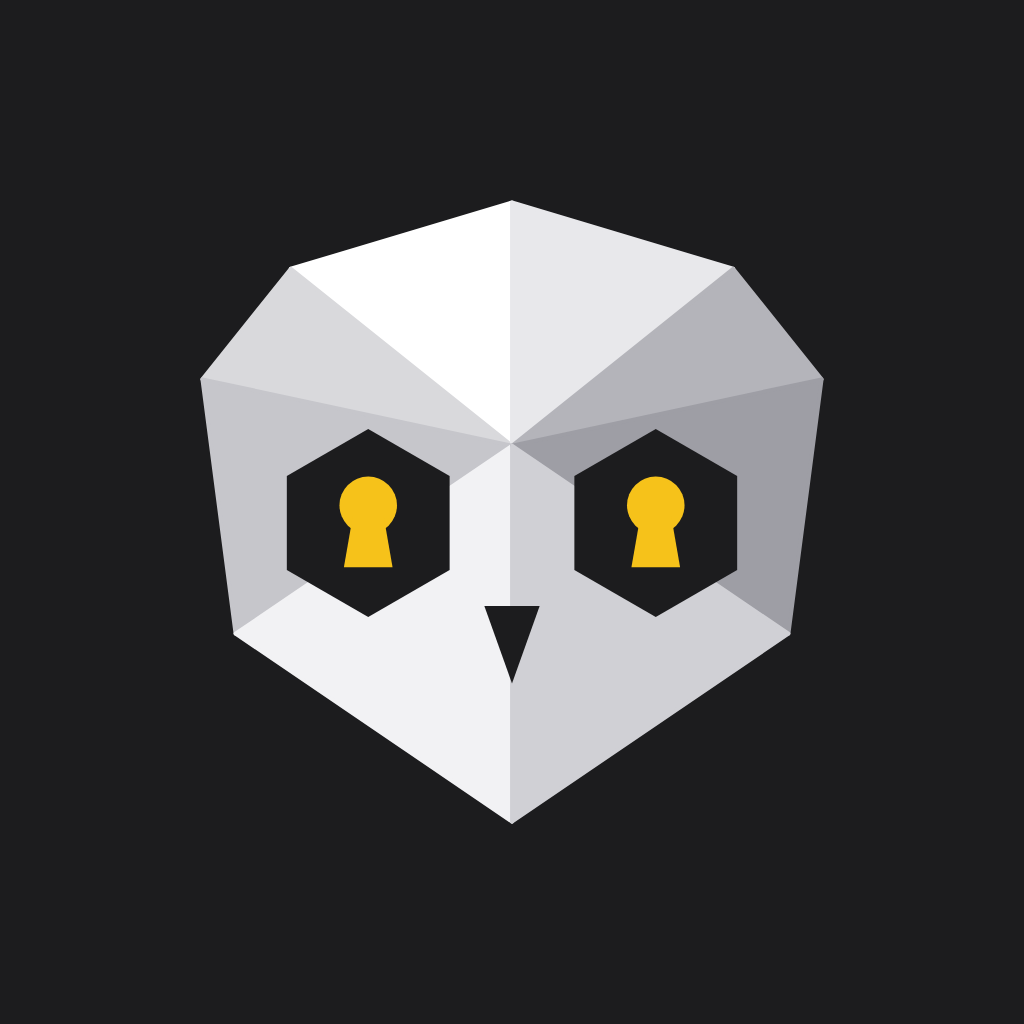
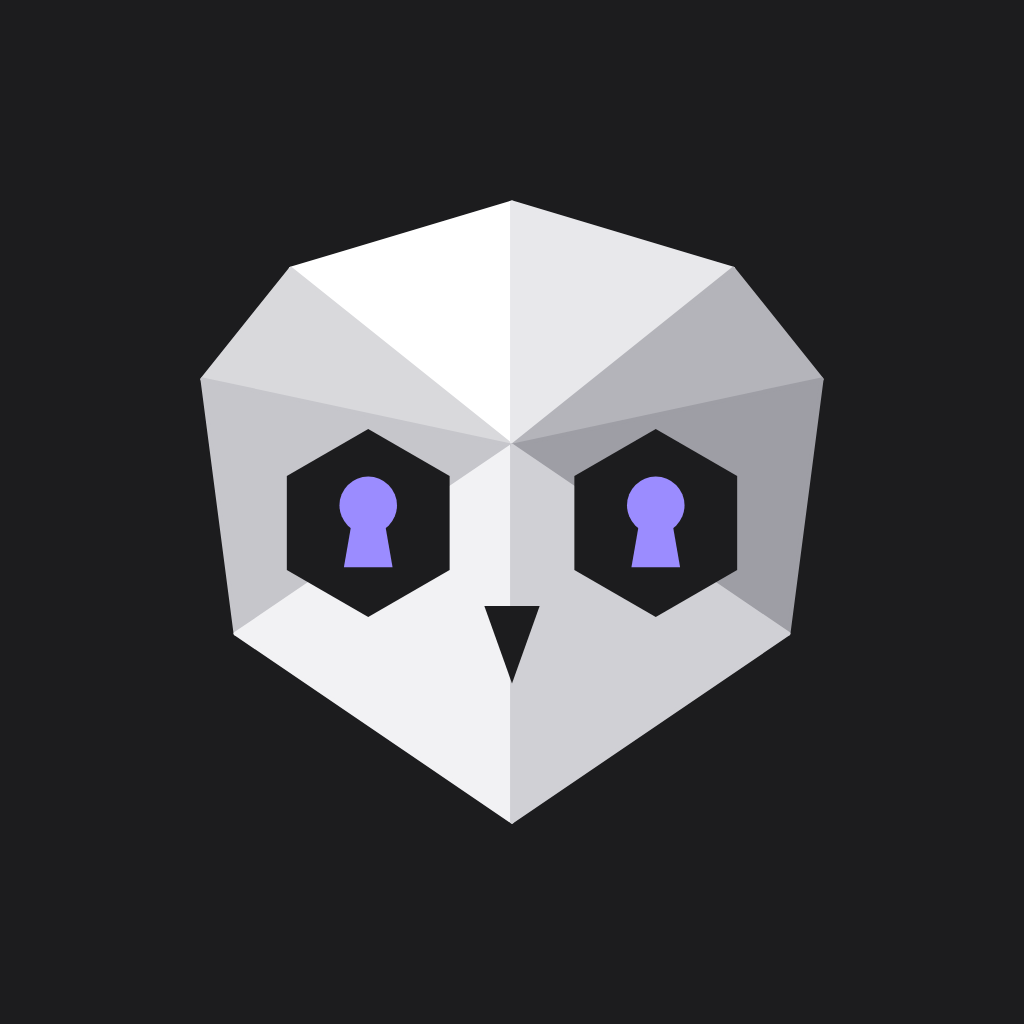
Switch the brand accent to violet and add a privacy slogan
- accent #F6C21A (amber) → #9B8CFF (violet), 6.1:1 contrast on graphite
- logo keyholes and app/splash/favicon PNGs recolored to violet
- tagline replaced with a slogan in TR/EN/RU

Changed region(s): [[0.5938, 0.4688, 0.6875, 0.5625], [0.3125, 0.4688, 0.4062, 0.5625]]

diff --git a/apps/mobile/i18n.ts b/apps/mobile/i18n.ts
@@ -2,28 +2,28 @@ import { LANGS, type Lang } from '@burrowl/assistant'
 
 export const strings: Record<Lang, {
   greeting: string
-  onDevice: string
+  slogan: string
   placeholder: string
   send: string
   searching: string
 }> = {
   tr: {
     greeting: 'Merhaba, nasıl yardımcı olabilirim?',
-    onDevice: 'Cihazda çalışır · hesap yok · sohbetler telefondan çıkmaz',
+    slogan: 'Sorduğun her şey sende kalır.',
     placeholder: 'Mesajınızı yazın...',
     send: 'Gönder',
     searching: 'Aranıyor',
   },
   en: {
     greeting: 'Hi, how can I help you?',
-    onDevice: 'Runs on your device · no account · chats never leave your phone',
+    slogan: 'Everything you ask stays with you.',
     placeholder: 'Type your message...',
     send: 'Send',
     searching: 'Searching',
   },
   ru: {
     greeting: 'Привет! Чем могу помочь?',
-    onDevice: 'Работает на устройстве · без аккаунта · чаты не покидают телефон',
+    slogan: 'Всё, что вы спрашиваете, остаётся с вами.',
     placeholder: 'Напишите сообщение...',
     send: 'Отправить',
     searching: 'Ищу',

diff --git a/apps/mobile/theme.ts b/apps/mobile/theme.ts
@@ -1,9 +1,9 @@
 // Burrowl AI brand palette (see proje_yeni_markarengi).
-// 90% graphite, white and greys; amber is the single accent, used sparingly.
+// 90% graphite, white and greys; violet is the single accent, used sparingly.
 export const brand = {
   graphite: '#1C1C1E',
   white: '#FFFFFF',
-  amber: '#F6C21A',
+  violet: '#9B8CFF',
   canvas: '#F5F5F7',
   ring: '#3A3A3C',
   textSecondary: '#8E8E93',
@@ -18,8 +18,8 @@ export const colors = {
   border: brand.ring,
   text: brand.white,
   textMuted: brand.textSecondary,
-  // Amber marks what leaves the device (the search query) and the "AI" wordmark.
-  accent: brand.amber,
+  // Violet marks what leaves the device (the search query) and the "AI" wordmark.
+  accent: brand.violet,
   onAccent: brand.graphite,
   danger: '#FF6961',
 } as const

diff --git a/apps/mobile/App.tsx b/apps/mobile/App.tsx
@@ -47,9 +47,9 @@ export default function App() {
         </View>
       </View>
 
-      <View style={styles.onDevice}>
+      <View style={styles.slogan}>
         <Icon name="shield" size={14} color={colors.textMuted} />
-        <Text style={styles.onDeviceText}>{t.onDevice}</Text>
+        <Text style={styles.sloganText}>{t.slogan}</Text>
       </View>
 
       <ScrollView style={styles.messages} contentContainerStyle={styles.messagesContent}>
@@ -146,14 +146,14 @@ const styles = StyleSheet.create({
   langTextActive: {
     color: colors.background,
   },
-  onDevice: {
+  slogan: {
     flexDirection: 'row',
     alignItems: 'center',
     gap: 6,
     paddingHorizontal: 16,
     paddingVertical: 10,
   },
-  onDeviceText: {
+  sloganText: {
     color: colors.textMuted,
     fontSize: 12,
   },

diff --git a/apps/mobile/components/BurrowlLogo.tsx b/apps/mobile/components/BurrowlLogo.tsx
@@ -15,7 +15,7 @@ const DARK = {
   bg: '#1C1C1E', ring: '#3A3A3C',
   f1: '#FFFFFF', f2: '#D9D9DC', f3: '#E8E8EB', f4: '#B4B4BA',
   f5: '#C6C6CB', f6: '#F2F2F4', f7: '#9E9EA5', f8: '#D0D0D5',
-  eye: '#1C1C1E', key: '#F6C21A', beak: '#1C1C1E',
+  eye: '#1C1C1E', key: '#9B8CFF', beak: '#1C1C1E',
 };
 
 const PALETTES: Record<Variant, typeof DARK> = {
